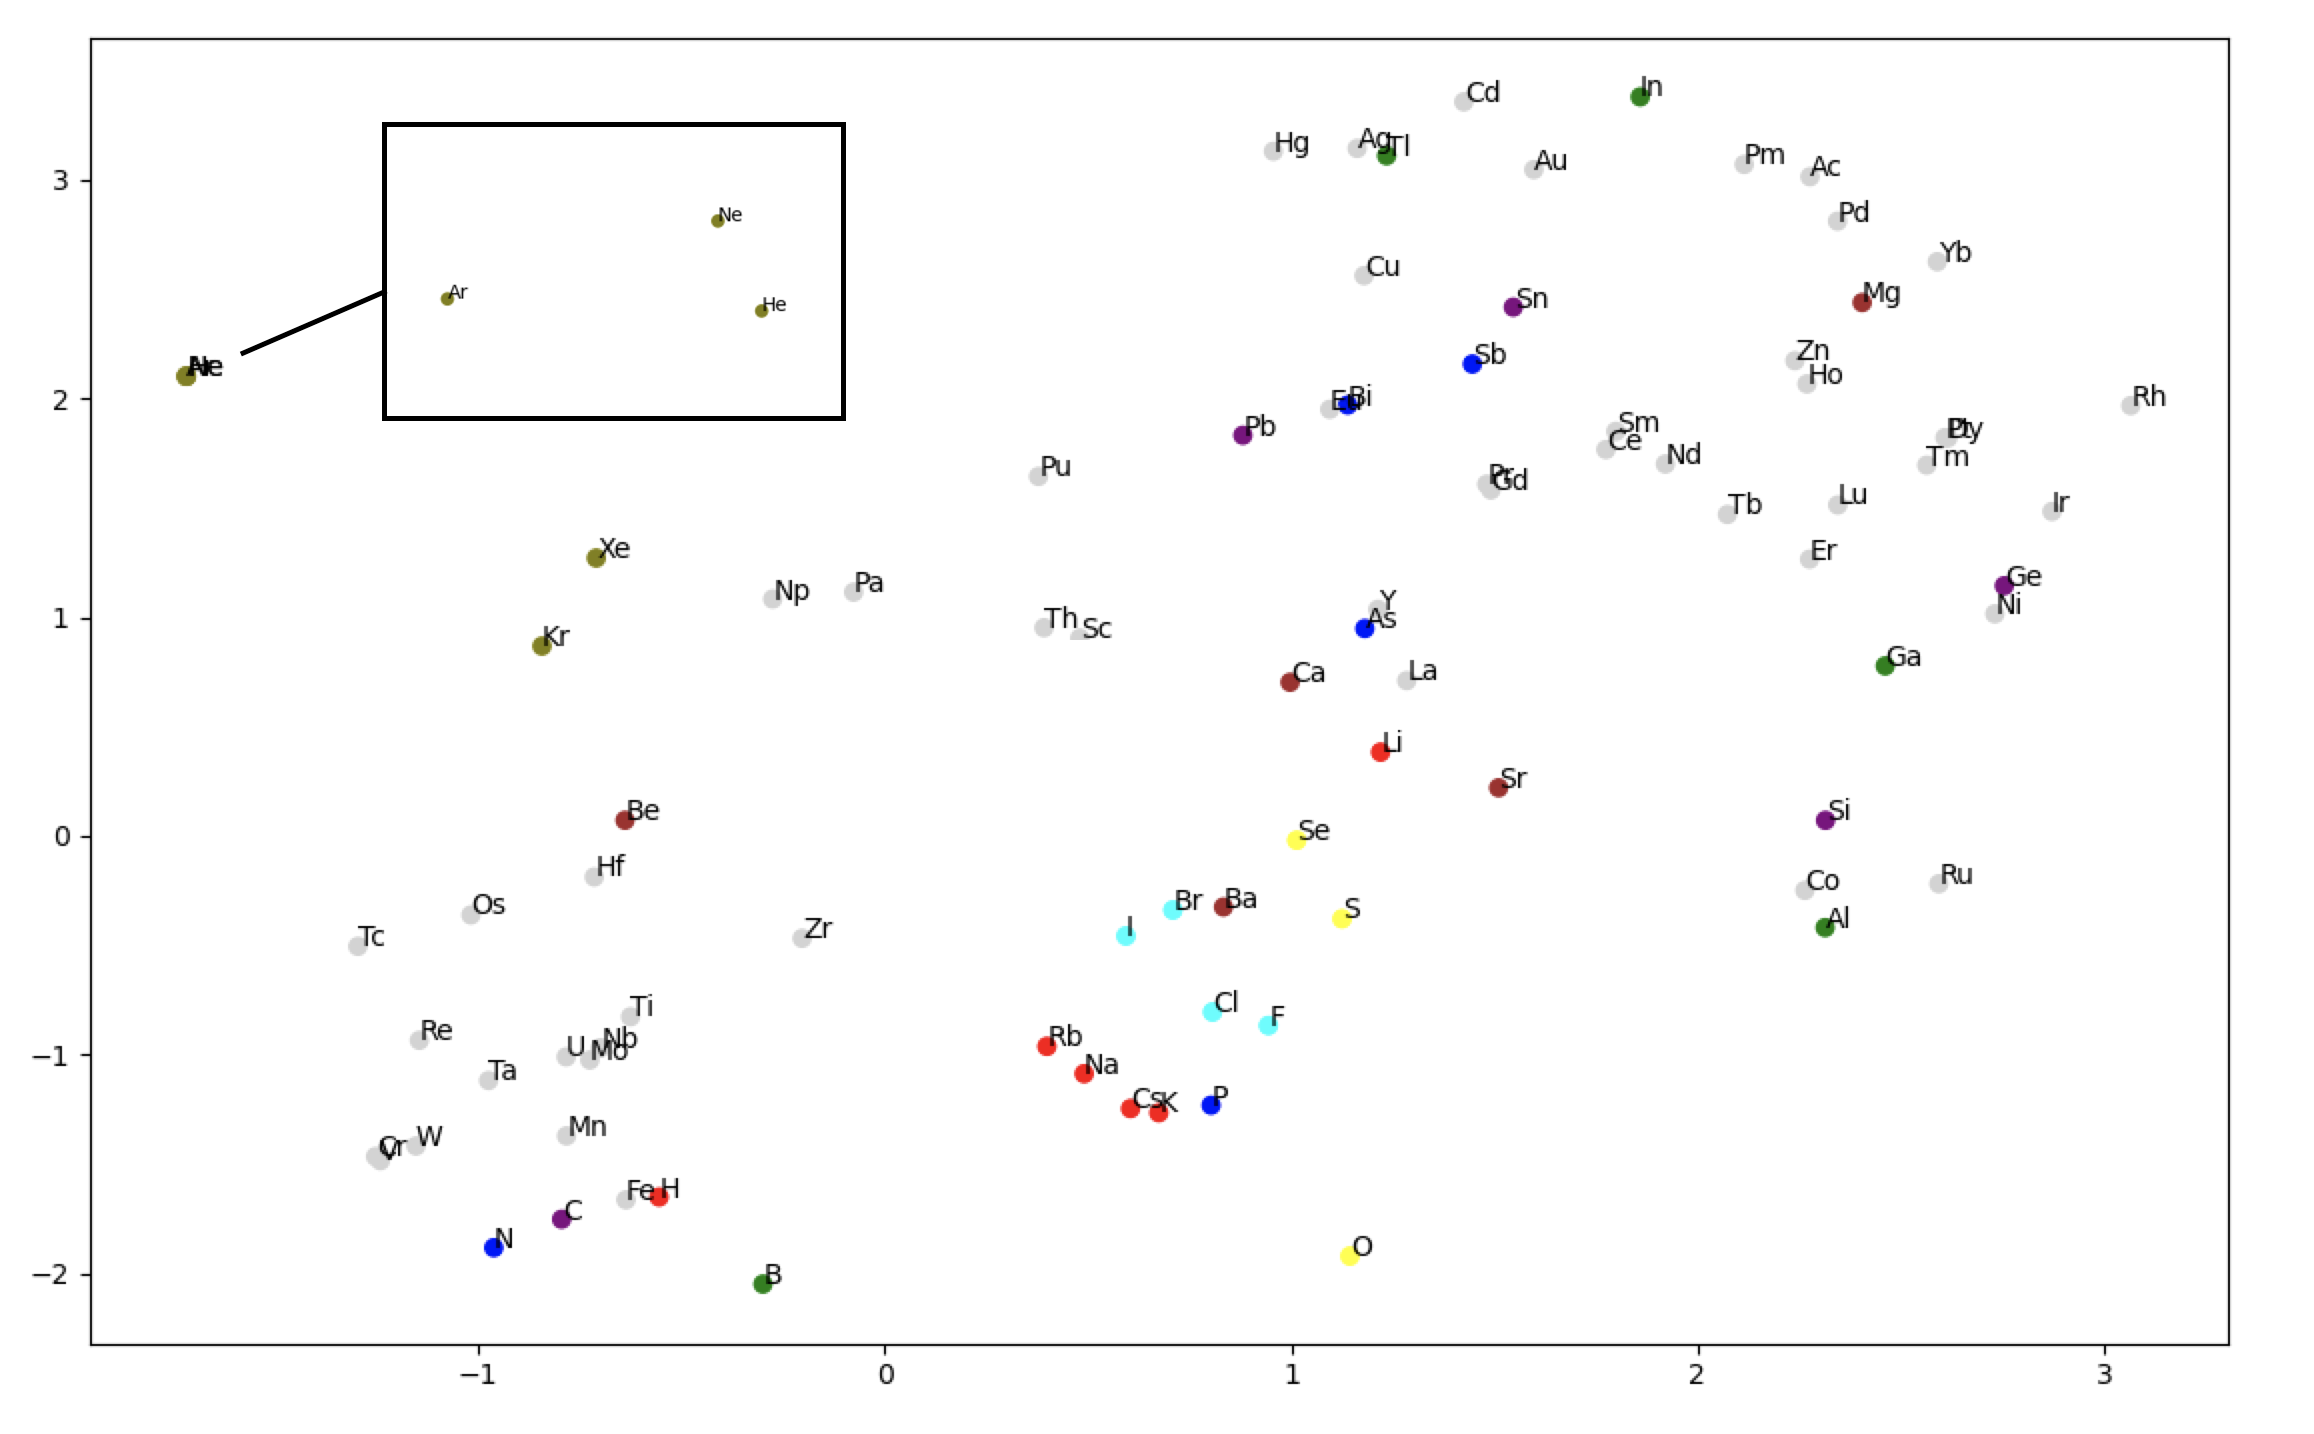
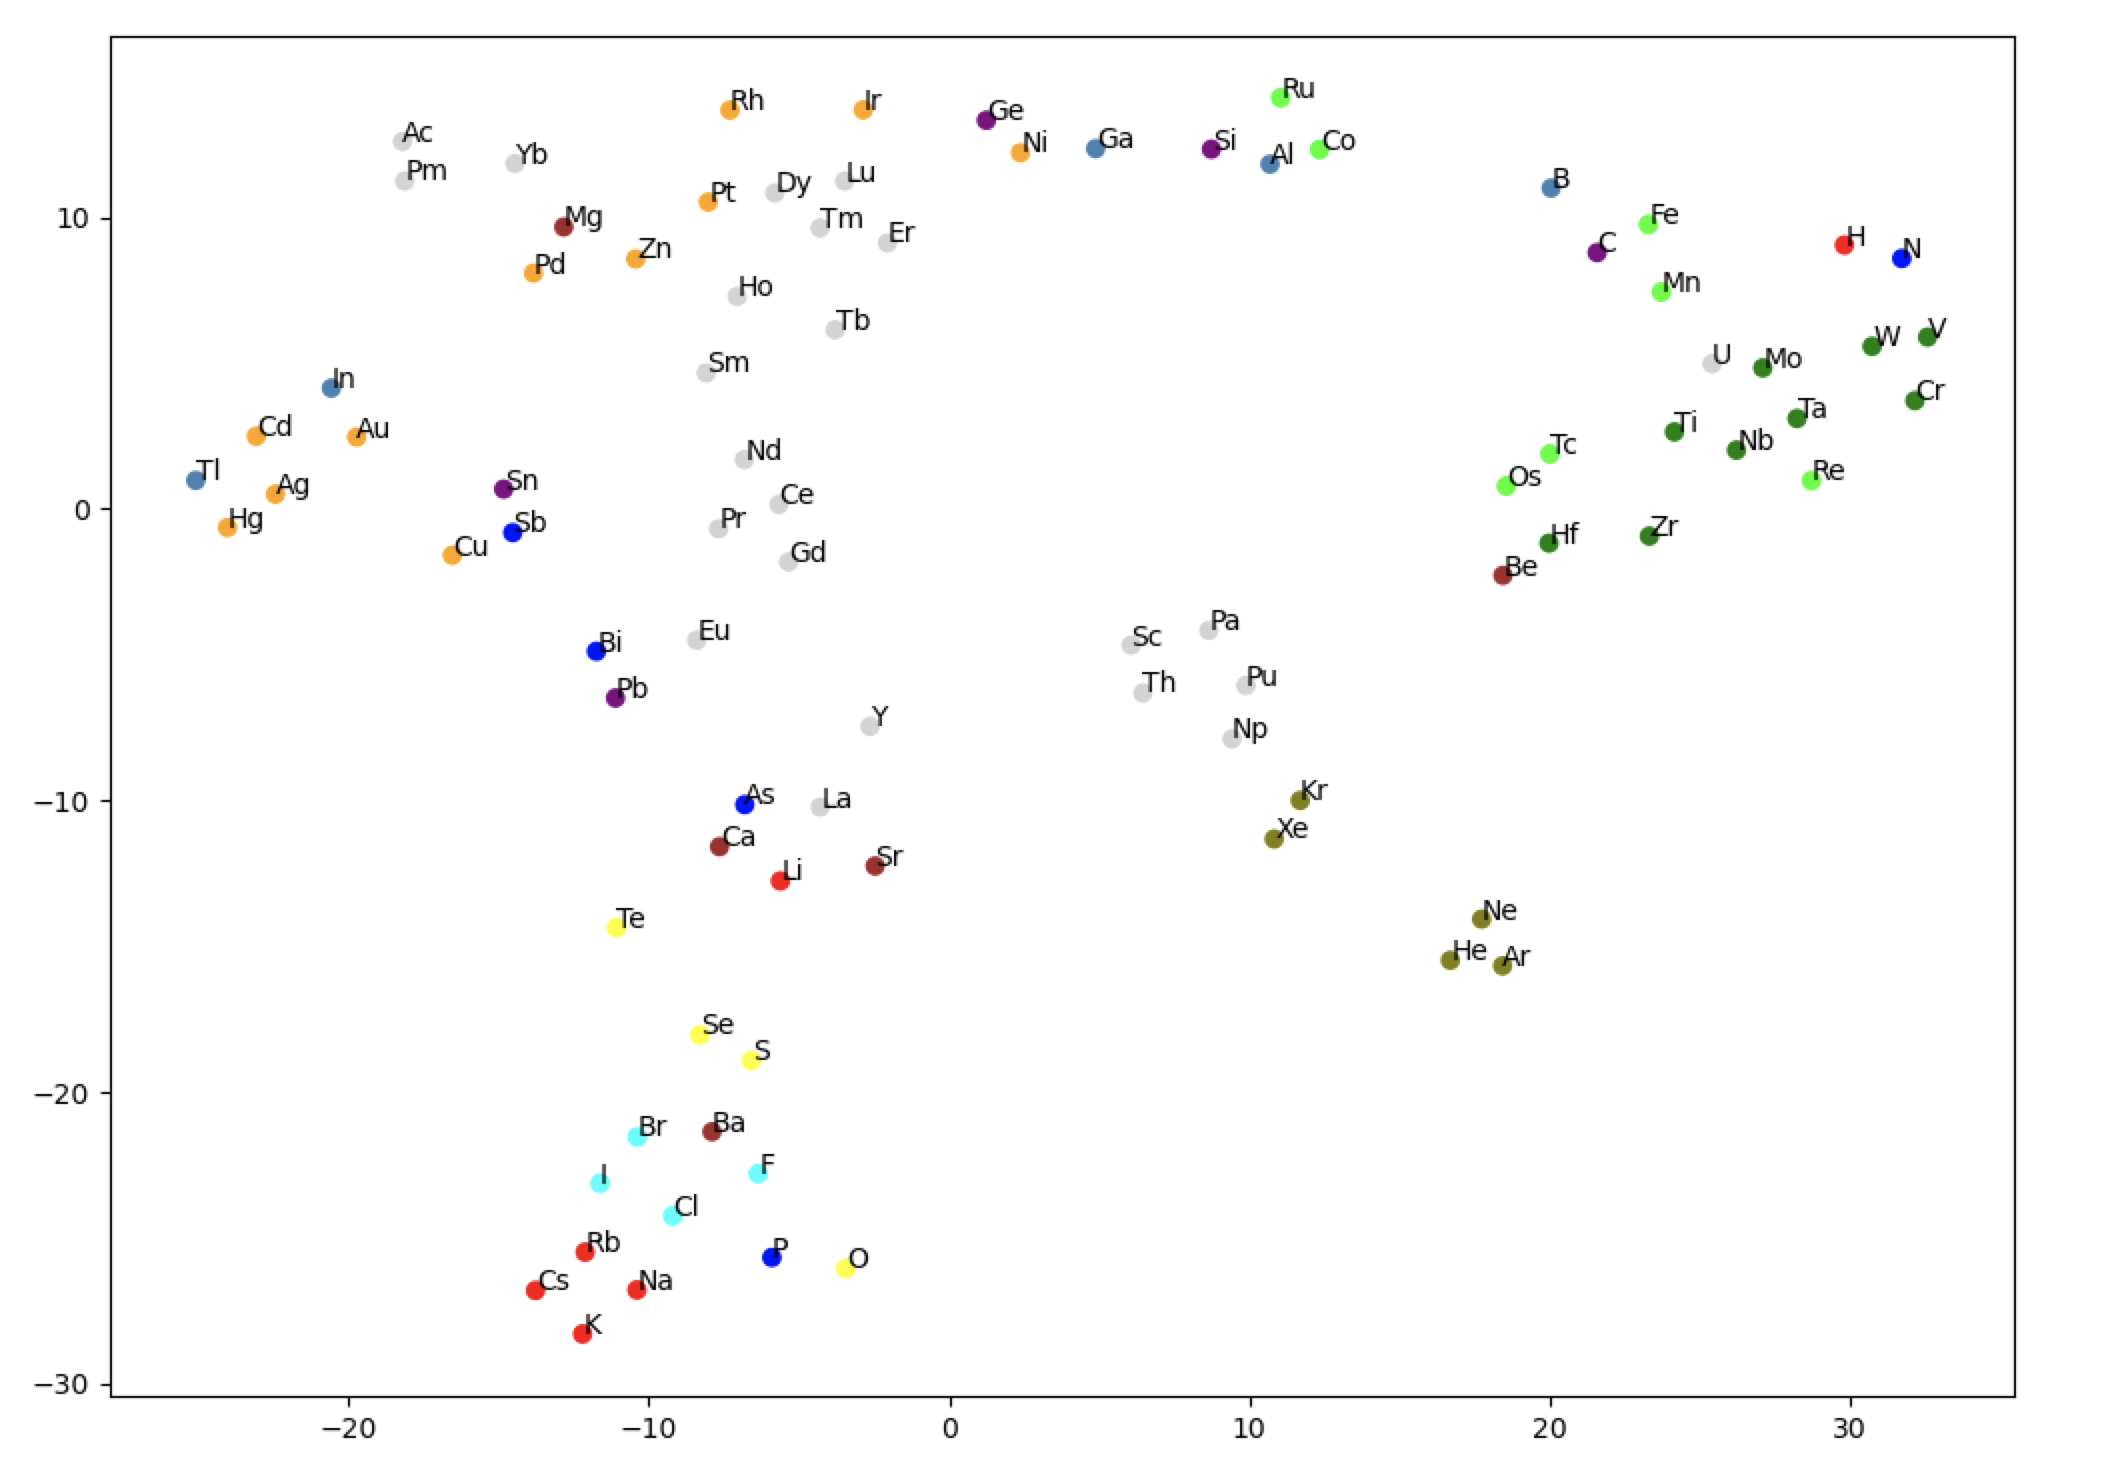
updating plot

diff --git a/README.md b/README.md
@@ -5,6 +5,6 @@ materials-sandbox
 python build_glove_model.py --create out/all_stable_bandgap.node2vec.walks --components 20 --train 50
 ```
 ```
-python plot_atom_vectors_tsne.py --model out/all_stable_bandgap_dim20.glove.model --iterations 5000 --perplexity 50 --learning-rate 10
+python plot_atom_vectors_tsne.py --model out/all_stable_bandgap_dim20.glove.model --iterations 5000 --perplexity 10 --learning-rate 10
 ```
 ![fig1](resources/all_stable_bandgap_tsne.png)
